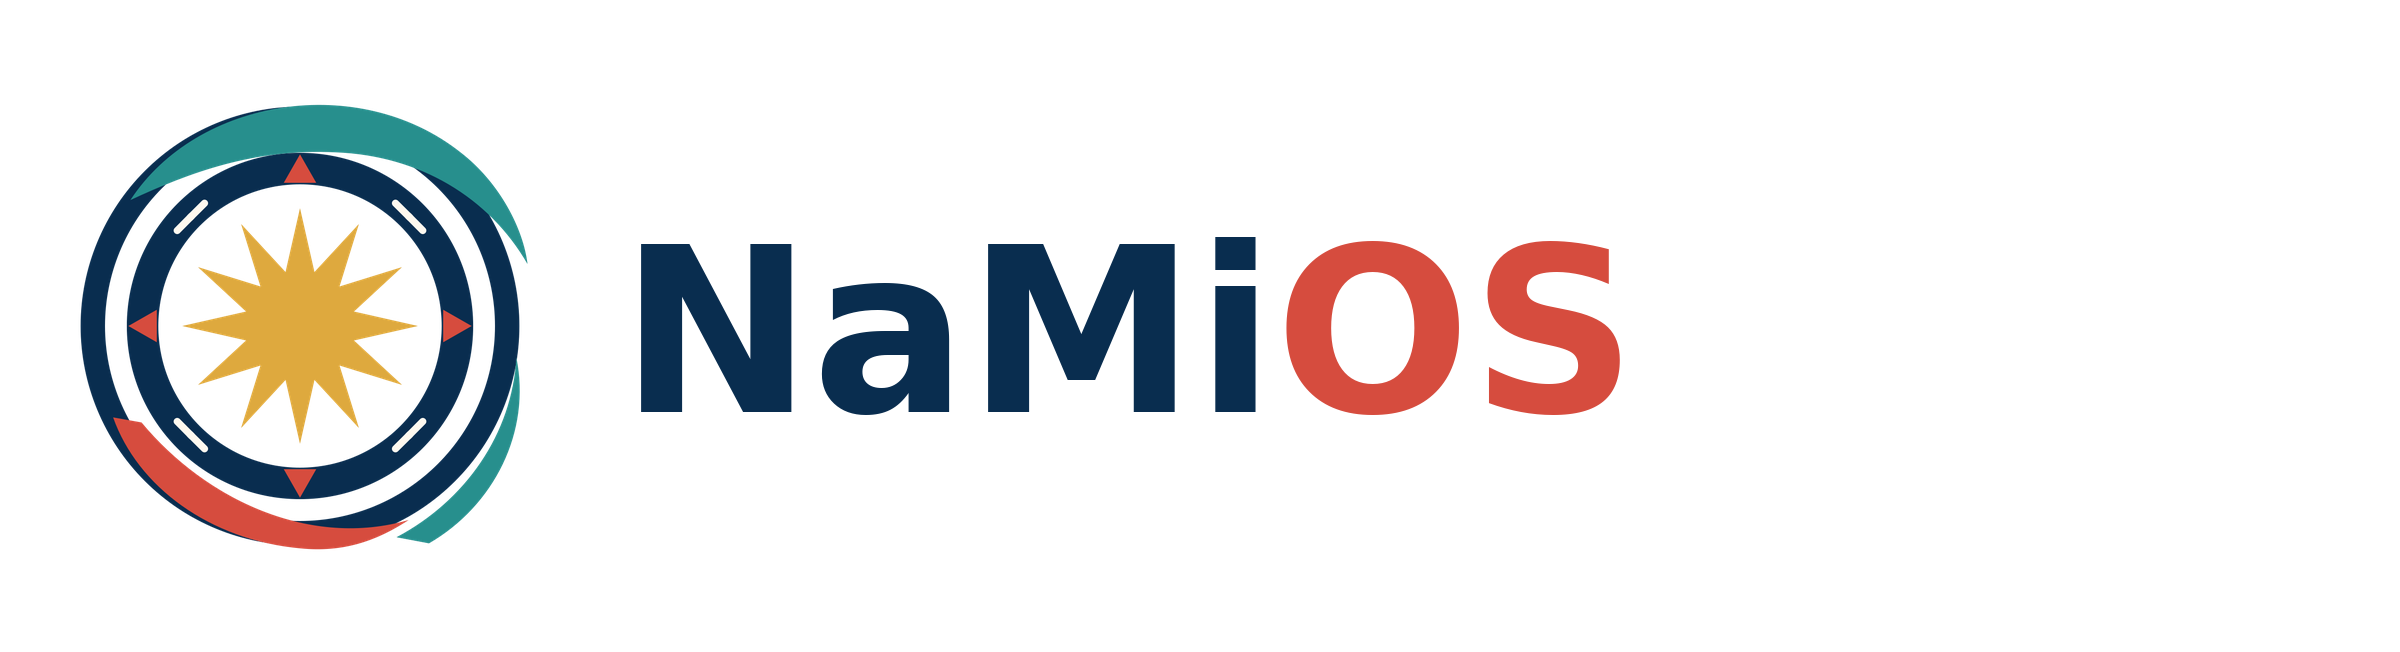
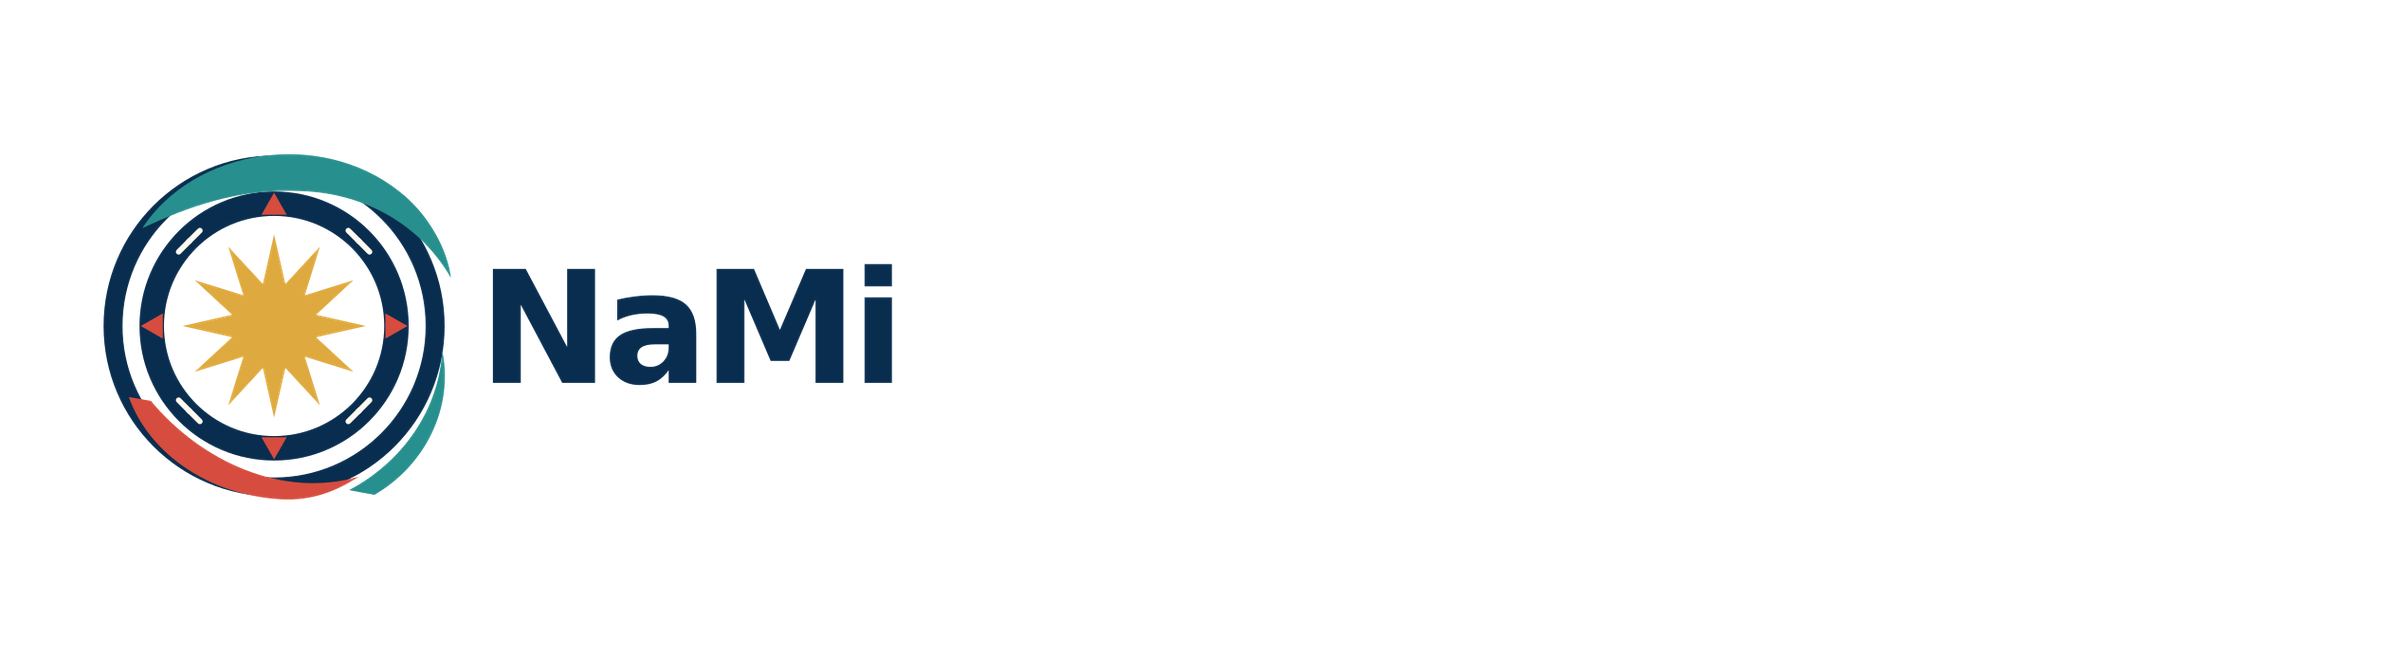
feat(brand): doi ten hien thi NaMiOS -> NaMi (Cuong chot), giu dinh danh ky thuat
Cuong chot "Doi sang NaMi". Doi TEN NGUOI-DUNG-THAY sang "NaMi"; GIU nguyen
dinh danh ky thuat de khong gay build.

DOI (display): os-release NAME/PRETTY_NAME, motd/issue/issue.net/lsb-release,
menu boot GRUB+isolinux, wordmark SDDM + splash + tagline "NaMi — He dieu hanh
cho nguoi Viet", Calamares productName/slideshow + launcher "Cai dat NaMi",
25 .desktop Name/Comment, tieu de cua so + Gioi thieu + thong bao cua cac app
(antoan/dichvu/assistant/control-panel/chan-doan/...), prompt AI tu xung "NaMi
Assistant", PRODUCT_NAME core = "NaMi" (+test), welcome.png render lai = "NaMi"
(dung lockup kit, bo "OS").

GIU NGUYEN: ID=namios, URL repo github.com/NamDoji/NaMiOS, goi namios-*, duong
dan /opt/namios, module namios_*, theme NaMiOS-Lotus/-Symbolic/-Sen, NaMiOSLotus,
NaMiOS.colors, file NaMiOS_*.svg, org.namios.*, keys NAMIOS_*/X-NaMiOS-*,
comment code. Sub-brand giu nguyen: NaMiLich, NaMiOffice, NaMiWriter/Sheet.

CI xanh: ruff/black/mypy + pytest 2593 passed (test_core PRODUCT_NAME cap nhat).
verified_on_host: NO. Chua build (cho lenh Cuong). ⚠ Luu y: 2088 lan "NaMiOS"
trong repo chu yeu la comment/dinh danh noi bo -> KHONG doi (chu doi chuoi
nguoi-dung-thay); neu Cuong muon doi ca namespace ky thuat = viec lon rieng.

Changed region(s): [[0.0312, 0.1534, 0.6875, 0.8589]]

diff --git a/distro/live-build/config/includes.chroot/etc/calamares/branding/namios/show.qml b/distro/live-build/config/includes.chroot/etc/calamares/branding/namios/show.qml
@@ -282,7 +282,7 @@ Presentation
             width: parent.width
             horizontalAlignment: Text.Center
             wrapMode: Text.WordWrap
-            text: qsTr("Welcome to NaMiOS")
+            text: qsTr("Welcome to NaMi")
             color: "#DEA93E"
             font.family: "Noto Sans"
             font.bold: true
@@ -308,7 +308,7 @@ Presentation
             width: parent.width * 0.85
             horizontalAlignment: Text.Center
             wrapMode: Text.WordWrap
-            text: qsTr("Chào mừng đến với NaMiOS — máy của bạn đang được cài đặt, chỉ mất vài phút.")
+            text: qsTr("Chào mừng đến với NaMi — máy của bạn đang được cài đặt, chỉ mất vài phút.")
             color: "#B2B9BA"
             font.family: "Noto Sans"
             font.italic: true
@@ -457,7 +457,7 @@ Presentation
             width: parent.width * 0.85
             horizontalAlignment: Text.Center
             wrapMode: Text.WordWrap
-            text: qsTr("Once installation finishes, your computer will restart into NaMiOS. Sign in with the account you just created to get started.")
+            text: qsTr("Once installation finishes, your computer will restart into NaMi. Sign in with the account you just created to get started.")
             color: "#FFF9EF"
             font.family: "Noto Sans"
             font.pixelSize: presentation.height * 0.040
@@ -469,7 +469,7 @@ Presentation
             width: parent.width * 0.85
             horizontalAlignment: Text.Center
             wrapMode: Text.WordWrap
-            text: qsTr("Cài đặt xong, máy sẽ khởi động lại vào NaMiOS — đăng nhập bằng tài khoản bạn vừa tạo để bắt đầu.")
+            text: qsTr("Cài đặt xong, máy sẽ khởi động lại vào NaMi — đăng nhập bằng tài khoản bạn vừa tạo để bắt đầu.")
             color: "#B2B9BA"
             font.family: "Noto Sans"
             font.italic: true

diff --git a/distro/live-build/config/includes.chroot/usr/share/plasma/look-and-feel/org.namios.sen/contents/splash/Splash.qml b/distro/live-build/config/includes.chroot/usr/share/plasma/look-and-feel/org.namios.sen/contents/splash/Splash.qml
@@ -250,7 +250,7 @@ Rectangle {
         Text {
             id: productName
             anchors.horizontalCenter: parent.horizontalCenter
-            text: "NaMiOS"
+            text: "NaMi"
             color: "#FFF9EF" // ivory v3 (THAY mực-đêm #182E3B — tren nen navy moi)
             font.family: "Inter"
             font.pixelSize: 32
@@ -261,7 +261,7 @@ Rectangle {
         Text {
             id: productTagline
             anchors.horizontalCenter: parent.horizontalCenter
-            text: "— Hệ điều hành cho người Việt"
+            text: "NaMi — Hệ điều hành cho người Việt"
             color: "#B7C4CF" // dim tren navy, 7.87:1 (dat AA) — xem ghi chu mau dau file
             font.family: "Inter"
             font.pixelSize: 16

diff --git a/distro/live-build/config/includes.chroot/usr/share/sddm/themes/namios/Main.qml b/distro/live-build/config/includes.chroot/usr/share/sddm/themes/namios/Main.qml
@@ -175,7 +175,7 @@ Item {
             visible: status === Image.Ready
         }
         Text {
-            text: "NaMiOS"
+            text: "NaMi"
             color: root.cFg
             font.family: root.brandFont
             font.pixelSize: 16

diff --git a/distro/live-build/config/includes.chroot/opt/namios/namios_dichvu-src/_i18n.py b/distro/live-build/config/includes.chroot/opt/namios/namios_dichvu-src/_i18n.py
@@ -39,7 +39,7 @@ _VI: dict[str, str] = {
     "dichvu.ui.envcheck.status.missing": "chưa có",
     "dichvu.ui.envcheck.section.clock": "Giờ hệ thống",
     "dichvu.ui.envcheck.clock.line": "Giờ hiện tại: {time} (múi giờ: {tz})",
-    "dichvu.ui.envcheck.section.manual": "Cần bạn tự kiểm (NaMiOS không tự kiểm được từ mã)",
+    "dichvu.ui.envcheck.section.manual": "Cần bạn tự kiểm (NaMi không tự kiểm được từ mã)",
     "dichvu.ui.envcheck.footer": (
         "Tự kiểm này CHỈ đọc thông tin máy (PATH/giờ hệ thống) — không thu thập, không gửi đi đâu, "
         "không yêu cầu PIN/mật khẩu nào."
@@ -55,7 +55,7 @@ _VI: dict[str, str] = {
     "dichvu.ui.card.account_condition_label": "Điều kiện tài khoản: {condition}",
     "dichvu.ui.card.source_label": "Nguồn: {source}",
     "dichvu.ui.card.last_updated_label": "Cập nhật: {date}",
-    "dichvu.ui.card.tested_label": "Đã kiểm bởi NaMiOS: {value}",
+    "dichvu.ui.card.tested_label": "Đã kiểm bởi NaMi: {value}",
     "dichvu.ui.card.vendor_support_label": "Nhà cung cấp xác nhận hỗ trợ: {value}",
     "dichvu.ui.card.bool_yes": "có",
     "dichvu.ui.card.bool_no": "chưa",
@@ -75,7 +75,7 @@ _VI: dict[str, str] = {
         "Linux chính hãng công khai); dò thử bằng nút \"Dò token USB\" nếu muốn tự kiểm."
     ),
     "dichvu.ui.footer.disclaimer": (
-        "Nhãn trạng thái ở đây do NaMiOS tự phân loại dựa trên dữ liệu đã khảo sát, KHÔNG phải "
+        "Nhãn trạng thái ở đây do NaMi tự phân loại dựa trên dữ liệu đã khảo sát, KHÔNG phải "
         "xác nhận của nhà cung cấp/cơ quan nhà nước. verified_on_host: CHƯA kiểm thử trên máy thật."
     ),
     "dichvu.ui.empty_category_note_prefix": "Lưu ý: ",
@@ -109,7 +109,7 @@ _EN: dict[str, str] = {
     "dichvu.ui.envcheck.status.missing": "missing",
     "dichvu.ui.envcheck.section.clock": "System clock",
     "dichvu.ui.envcheck.clock.line": "Current time: {time} (timezone: {tz})",
-    "dichvu.ui.envcheck.section.manual": "Needs your own check (NaMiOS cannot verify this from code)",
+    "dichvu.ui.envcheck.section.manual": "Needs your own check (NaMi cannot verify this from code)",
     "dichvu.ui.envcheck.footer": (
         "This self-check ONLY reads local machine info (PATH/system clock) — nothing is "
         "collected or sent anywhere, no PIN/password is requested."
@@ -125,7 +125,7 @@ _EN: dict[str, str] = {
     "dichvu.ui.card.account_condition_label": "Account requirement: {condition}",
     "dichvu.ui.card.source_label": "Source: {source}",
     "dichvu.ui.card.last_updated_label": "Updated: {date}",
-    "dichvu.ui.card.tested_label": "Tested by NaMiOS: {value}",
+    "dichvu.ui.card.tested_label": "Tested by NaMi: {value}",
     "dichvu.ui.card.vendor_support_label": "Vendor-confirmed support: {value}",
     "dichvu.ui.card.bool_yes": "yes",
     "dichvu.ui.card.bool_no": "not yet",
@@ -146,7 +146,7 @@ _EN: dict[str, str] = {
         "button if you want to check for yourself."
     ),
     "dichvu.ui.footer.disclaimer": (
-        "Status labels here are NaMiOS's own classification based on surveyed data, NOT a "
+        "Status labels here are NaMi's own classification based on surveyed data, NOT a "
         "vendor/government confirmation. verified_on_host: NOT yet tested on real hardware."
     ),
     "dichvu.ui.empty_category_note_prefix": "Note: ",

diff --git a/distro/live-build/config/includes.chroot/opt/namios/namios_antoan-src/_i18n.py b/distro/live-build/config/includes.chroot/opt/namios/namios_antoan-src/_i18n.py
@@ -13,7 +13,7 @@ from namios_i18n import Lang, add_catalog
 
 __all__: list[str] = []
 
-_ABOUT_BODY_VI = """NaMiOS KHÔNG có một "phần mềm diệt virus" chạy nền 24/7 kiểu Windows —
+_ABOUT_BODY_VI = """NaMi KHÔNG có một "phần mềm diệt virus" chạy nền 24/7 kiểu Windows —
 thay vào đó, Linux tự bảo vệ bằng NHIỀU LỚP cộng lại:
 
   • Quyền user thường (không chạy hằng ngày bằng quyền quản trị) — một
@@ -49,7 +49,7 @@ Hãy luôn cẩn trọng khi mở tệp tải về, cắm USB lạ, hoặc chạ
 qua Wine — đây là những nguồn phổ biến mang mã không an toàn mà không công
 cụ nào chặn được tuyệt đối."""
 
-_ABOUT_BODY_EN = """NaMiOS does not run a 24/7 "antivirus" background service like Windows —
+_ABOUT_BODY_EN = """NaMi does not run a 24/7 "antivirus" background service like Windows —
 instead, Linux protects itself through SEVERAL LAYERS working together:
 
   • Regular user permissions (you don't run as admin day to day) — malware
@@ -87,7 +87,7 @@ run through Wine — these are common sources of unsafe code that no tool can
 block with absolute certainty."""
 
 _VI: dict[str, str] = {
-    "antoan.ui.window_title": "Trung tâm An toàn — NaMiOS",
+    "antoan.ui.window_title": "Trung tâm An toàn — NaMi",
     "antoan.ui.header.title": "Trung tâm An toàn",
     "antoan.ui.header.subtitle": (
         "Xem trạng thái THẬT của máy (cập nhật, tường lửa, AppArmor, quét virus, "
@@ -96,11 +96,11 @@ _VI: dict[str, str] = {
     "antoan.ui.button.refresh_all": "Làm mới tất cả",
     "antoan.ui.button.refresh": "Làm mới",
     "antoan.ui.button.about": "Giới thiệu",
-    "antoan.ui.about.title": "Giới thiệu — mô hình bảo vệ của NaMiOS",
+    "antoan.ui.about.title": "Giới thiệu — mô hình bảo vệ của NaMi",
     "antoan.ui.about.body": _ABOUT_BODY_VI,
     "antoan.ui.about.close": "Đóng",
     "antoan.ui.footer.disclaimer": (
-        "NaMiOS KHÔNG hứa chống được 100% virus/mã độc. Hãy cẩn trọng với tệp "
+        "NaMi KHÔNG hứa chống được 100% virus/mã độc. Hãy cẩn trọng với tệp "
         "tải về, USB lạ, và app Windows chạy qua Wine."
     ),
     "antoan.ui.status.checking": "Đang kiểm tra…",
@@ -131,7 +131,7 @@ _VI: dict[str, str] = {
 }
 
 _EN: dict[str, str] = {
-    "antoan.ui.window_title": "Security Center — NaMiOS",
+    "antoan.ui.window_title": "Security Center — NaMi",
     "antoan.ui.header.title": "Security Center",
     "antoan.ui.header.subtitle": (
         "See the REAL status of this machine (updates, firewall, AppArmor, "
@@ -140,11 +140,11 @@ _EN: dict[str, str] = {
     "antoan.ui.button.refresh_all": "Refresh all",
     "antoan.ui.button.refresh": "Refresh",
     "antoan.ui.button.about": "About",
-    "antoan.ui.about.title": "About — NaMiOS's protection model",
+    "antoan.ui.about.title": "About — NaMi's protection model",
     "antoan.ui.about.body": _ABOUT_BODY_EN,
     "antoan.ui.about.close": "Close",
     "antoan.ui.footer.disclaimer": (
-        "NaMiOS does NOT promise to block 100% of viruses/malware. Be careful "
+        "NaMi does NOT promise to block 100% of viruses/malware. Be careful "
         "with downloaded files, unknown USB drives, and Windows apps run "
         "through Wine."
     ),

diff --git a/distro/live-build/config/includes.chroot/opt/namios/namios_antoan-src/probes.py b/distro/live-build/config/includes.chroot/opt/namios/namios_antoan-src/probes.py
@@ -239,7 +239,7 @@ def probe_firewall() -> CardStatus:
         ok = None
 
     detail_lines = [
-        "Mặc định NaMiOS: chặn kết nối ĐẾN (incoming), cho phép kết nối RA "
+        "Mặc định NaMi: chặn kết nối ĐẾN (incoming), cho phép kết nối RA "
         "(outgoing). KHÔNG chặn được mã độc đã chạy sẵn trên máy tự kết nối ra "
         "ngoài.",
         "Xem đầy đủ các luật chi tiết (ufw status verbose) cần quyền quản trị "
@@ -323,7 +323,7 @@ def probe_antivirus() -> CardStatus:
             ok=None,
             headline="Chưa cài ClamAV",
             detail=(
-                "Chưa có công cụ quét ClamAV trên máy này. ClamAV ở NaMiOS CHỈ "
+                "Chưa có công cụ quét ClamAV trên máy này. ClamAV ở NaMi CHỈ "
                 "quét THEO YÊU CẦU (on-demand) — không chạy thường trú, không "
                 "hứa chặn 100% mã độc."
             ),
@@ -370,7 +370,7 @@ def probe_antivirus() -> CardStatus:
         (
             "Quét thường trú (on-access): "
             + ("ĐANG CHẠY" if onaccess_running else "TẮT theo thiết kế")
-            + " — NaMiOS cố ý KHÔNG bật quét thường trú mặc định (tốn CPU/IO, "
+            + " — NaMi cố ý KHÔNG bật quét thường trú mặc định (tốn CPU/IO, "
             "có rủi ro deadlock trên phần cứng chưa benchmark, xem VN09-029)."
         ),
         "QUAN TRỌNG: 'quét sạch' KHÔNG phải bằng chứng máy không bị xâm nhập "
@@ -408,7 +408,7 @@ def probe_backup() -> CardStatus:
             ok=None,
             headline="Chưa cài Kup (sao lưu cá nhân)",
             detail=(
-                "Chưa tìm thấy gói kup-backup. NaMiOS dùng Kup (bup) làm công cụ "
+                "Chưa tìm thấy gói kup-backup. NaMi dùng Kup (bup) làm công cụ "
                 "sao lưu cá nhân theo phiên bản."
             ),
             install_hint="sudo apt install kup-backup bup",
@@ -457,7 +457,7 @@ def probe_backup() -> CardStatus:
     detail_lines = [
         "Tiến trình nền (kupdaemon) hiện tại: " + ("ĐANG CHẠY" if daemon_running else "KHÔNG chạy trong phiên này"),
         "Kup hỏi trước khi sao lưu/ghi đè (Ask first) theo cấu hình mặc định "
-        "NaMiOS — KHÔNG tự chọn ổ/tự ghi đè âm thầm.",
+        "NaMi — KHÔNG tự chọn ổ/tự ghi đè âm thầm.",
         "Sao lưu KHÔNG tự động nếu bạn chưa từng mở Cài đặt > Sao lưu để chọn "
         "ổ ngoài lần đầu.",
     ]

diff --git a/distro/live-build/config/includes.chroot/opt/namios/namios_assistant-src/_i18n.py b/distro/live-build/config/includes.chroot/opt/namios/namios_assistant-src/_i18n.py
@@ -46,8 +46,8 @@ _VI: dict[str, str] = {
         "KB ngoại tuyến thay thế."
     ),
     # --- ui: chrome giao diện ---
-    "assistant.ui.window_title": "NaMiOS Assistant — Trợ lý NaMiOS",
-    "assistant.ui.header.title": "Trợ lý NaMiOS",
+    "assistant.ui.window_title": "NaMi Assistant — Trợ lý NaMi",
+    "assistant.ui.header.title": "Trợ lý NaMi",
     "assistant.ui.header.subtitle": (
         "Dán thông báo lỗi hoặc ảnh chụp màn hình — nhận hướng dẫn phân loại "
         "theo mảng hệ thống (mạng/máy in/wine/văn phòng/màn hình/...)."
@@ -72,7 +72,7 @@ _VI: dict[str, str] = {
     "assistant.ui.attach.dialog_title": "Chọn ảnh chụp màn hình lỗi",
     "assistant.ui.attach.image_filter": "Ảnh (*.png *.jpg *.jpeg *.bmp *.webp)",
     "assistant.ui.transcript.you_label": "Bạn",
-    "assistant.ui.transcript.assistant_label": "NaMiOS Assistant",
+    "assistant.ui.transcript.assistant_label": "NaMi Assistant",
     "assistant.ui.transcript.system_label": "Hệ thống",
     "assistant.ui.system.ocr_running": "Đang nhận dạng chữ từ ảnh (OCR)…",
     "assistant.ui.system.ocr_text_inserted": (
@@ -109,8 +109,8 @@ _EN: dict[str, str] = {
     "assistant.engine.note.online_fallback": (
         "The online AI backend could not answer ({reason}) — showing the offline KB instead."
     ),
-    "assistant.ui.window_title": "NaMiOS Assistant",
-    "assistant.ui.header.title": "NaMiOS Assistant",
+    "assistant.ui.window_title": "NaMi Assistant",
+    "assistant.ui.header.title": "NaMi Assistant",
     "assistant.ui.header.subtitle": (
         "Paste an error message or a screenshot — get guidance classified by "
         "subsystem (network/printing/wine/office/display/...)."
@@ -135,7 +135,7 @@ _EN: dict[str, str] = {
     "assistant.ui.attach.dialog_title": "Choose a screenshot of the error",
     "assistant.ui.attach.image_filter": "Images (*.png *.jpg *.jpeg *.bmp *.webp)",
     "assistant.ui.transcript.you_label": "You",
-    "assistant.ui.transcript.assistant_label": "NaMiOS Assistant",
+    "assistant.ui.transcript.assistant_label": "NaMi Assistant",
     "assistant.ui.transcript.system_label": "System",
     "assistant.ui.system.ocr_running": "Reading text from the image (OCR)…",
     "assistant.ui.system.ocr_text_inserted": (

diff --git a/distro/live-build/config/includes.chroot/opt/namios/namios_dichvu-src/envcheck.py b/distro/live-build/config/includes.chroot/opt/namios/namios_dichvu-src/envcheck.py
@@ -76,19 +76,19 @@ _KNOWN_BROWSER_COMMANDS: tuple[str, ...] = (
 
 _MANUAL_REMINDERS_VI: tuple[str, ...] = (
     "Popup bị chặn hay không: tự mở một trang có popup đăng nhập thử (vd trang ký số từ "
-    "xa) rồi xem có hộp thoại bị chặn không — NaMiOS không tự kiểm được việc này từ mã.",
+    "xa) rồi xem có hộp thoại bị chặn không — NaMi không tự kiểm được việc này từ mã.",
     "Font/dấu tiếng Việt hiển thị đúng không: tự nhìn vào trang/tài liệu có dấu tiếng Việt "
     "(ă, â, ê, ô, ơ, ư, đ) xem có vuông/mất chữ không.",
     "Chứng thư số (.p12) của bạn còn hạn hay không: tự kiểm với nhà cung cấp chữ ký số, "
-    "NaMiOS không đọc nội dung file chứng thư của bạn.",
+    "NaMi không đọc nội dung file chứng thư của bạn.",
 )
 _MANUAL_REMINDERS_EN: tuple[str, ...] = (
     "Whether popups are blocked: open a page with a login popup yourself (e.g. a remote "
-    "signing page) and see if a dialog gets blocked — NaMiOS cannot check this from code.",
+    "signing page) and see if a dialog gets blocked — NaMi cannot check this from code.",
     "Whether Vietnamese diacritics render correctly: look at a page/document with Vietnamese "
     "accented letters (ă, â, ê, ô, ơ, ư, đ) and check for missing/boxed glyphs.",
     "Whether your .p12 certificate is still valid: check with your signing provider yourself; "
-    "NaMiOS does not read the contents of your certificate file.",
+    "NaMi does not read the contents of your certificate file.",
 )
 
 

diff --git a/distro/live-build/config/includes.chroot/opt/namios/namios_assistant-src/engine/online_backend.py b/distro/live-build/config/includes.chroot/opt/namios/namios_assistant-src/engine/online_backend.py
@@ -32,8 +32,8 @@ __all__ = ["OnlineBackendError", "OnlineLlmBackend"]
 _MAX_RESPONSE_BYTES = 2_000_000
 
 _DEFAULT_SYSTEM_PROMPT_VI = (
-    "Bạn là NaMiOS Assistant, một trợ lý kỹ thuật nói tiếng Việt (có thể trả "
-    "lời tiếng Anh khi được hỏi bằng tiếng Anh) cho hệ điều hành NaMiOS (Debian "
+    "Bạn là NaMi Assistant, một trợ lý kỹ thuật nói tiếng Việt (có thể trả "
+    "lời tiếng Anh khi được hỏi bằng tiếng Anh) cho hệ điều hành NaMi (Debian "
     "+ KDE Plasma). Người dùng dán một thông báo lỗi hoặc văn bản trích từ ảnh "
     "chụp màn hình. Trả lời ngắn gọn: (1) nguyên nhân có khả năng nhất, (2) các "
     "bước sửa theo thứ tự, (3) cách hoàn tác nếu bước sửa có rủi ro. KHÔNG bịa "

diff --git a/tests/unit/i18n/test_translator_t.py b/tests/unit/i18n/test_translator_t.py
@@ -66,7 +66,7 @@ def test_existing_vn_strings_preserved_verbatim() -> None:
     """RÀNG BUỘC CỰC KỲ QUAN TRỌNG: catalog vi PHẢI giữ nguyên y hệt chuỗi
     hiện có trong code (800 test cũ không được vỡ khi wire sau này)."""
 
-    assert t("welcome.ui.welcome.title") == "Chào mừng đến với NaMiOS"
+    assert t("welcome.ui.welcome.title") == "Chào mừng đến với NaMi"
     assert (
         t("eco.status.reason.not_inventoried")
         == "Chưa nấc nào được chạy (toàn bộ not_run) — chưa khảo sát."

diff --git a/distro/live-build/config/includes.chroot/opt/namios/namios_core/about.py b/distro/live-build/config/includes.chroot/opt/namios/namios_core/about.py
@@ -15,7 +15,7 @@ from namios_core.paths import APP_NAME
 
 #: Brand hiển thị (OWN-001). ``APP_NAME`` (namespace/CLI/path) vẫn là
 #: ``namios_core.paths.APP_NAME`` — nguồn duy nhất, re-export ở đây cho tiện.
-PRODUCT_NAME = "NaMiOS"
+PRODUCT_NAME = "NaMi"
 
 #: Hai nhà sáng lập/chủ dự án (FACT §26).
 FOUNDERS: tuple[str, ...] = ("Đỗ Chí Cường", "Đỗ Bảo Nam")

diff --git a/src/namios_core/about.py b/src/namios_core/about.py
@@ -15,7 +15,7 @@ from namios_core.paths import APP_NAME
 
 #: Brand hiển thị (OWN-001). ``APP_NAME`` (namespace/CLI/path) vẫn là
 #: ``namios_core.paths.APP_NAME`` — nguồn duy nhất, re-export ở đây cho tiện.
-PRODUCT_NAME = "NaMiOS"
+PRODUCT_NAME = "NaMi"
 
 #: Hai nhà sáng lập/chủ dự án (FACT §26).
 FOUNDERS: tuple[str, ...] = ("Đỗ Chí Cường", "Đỗ Bảo Nam")
